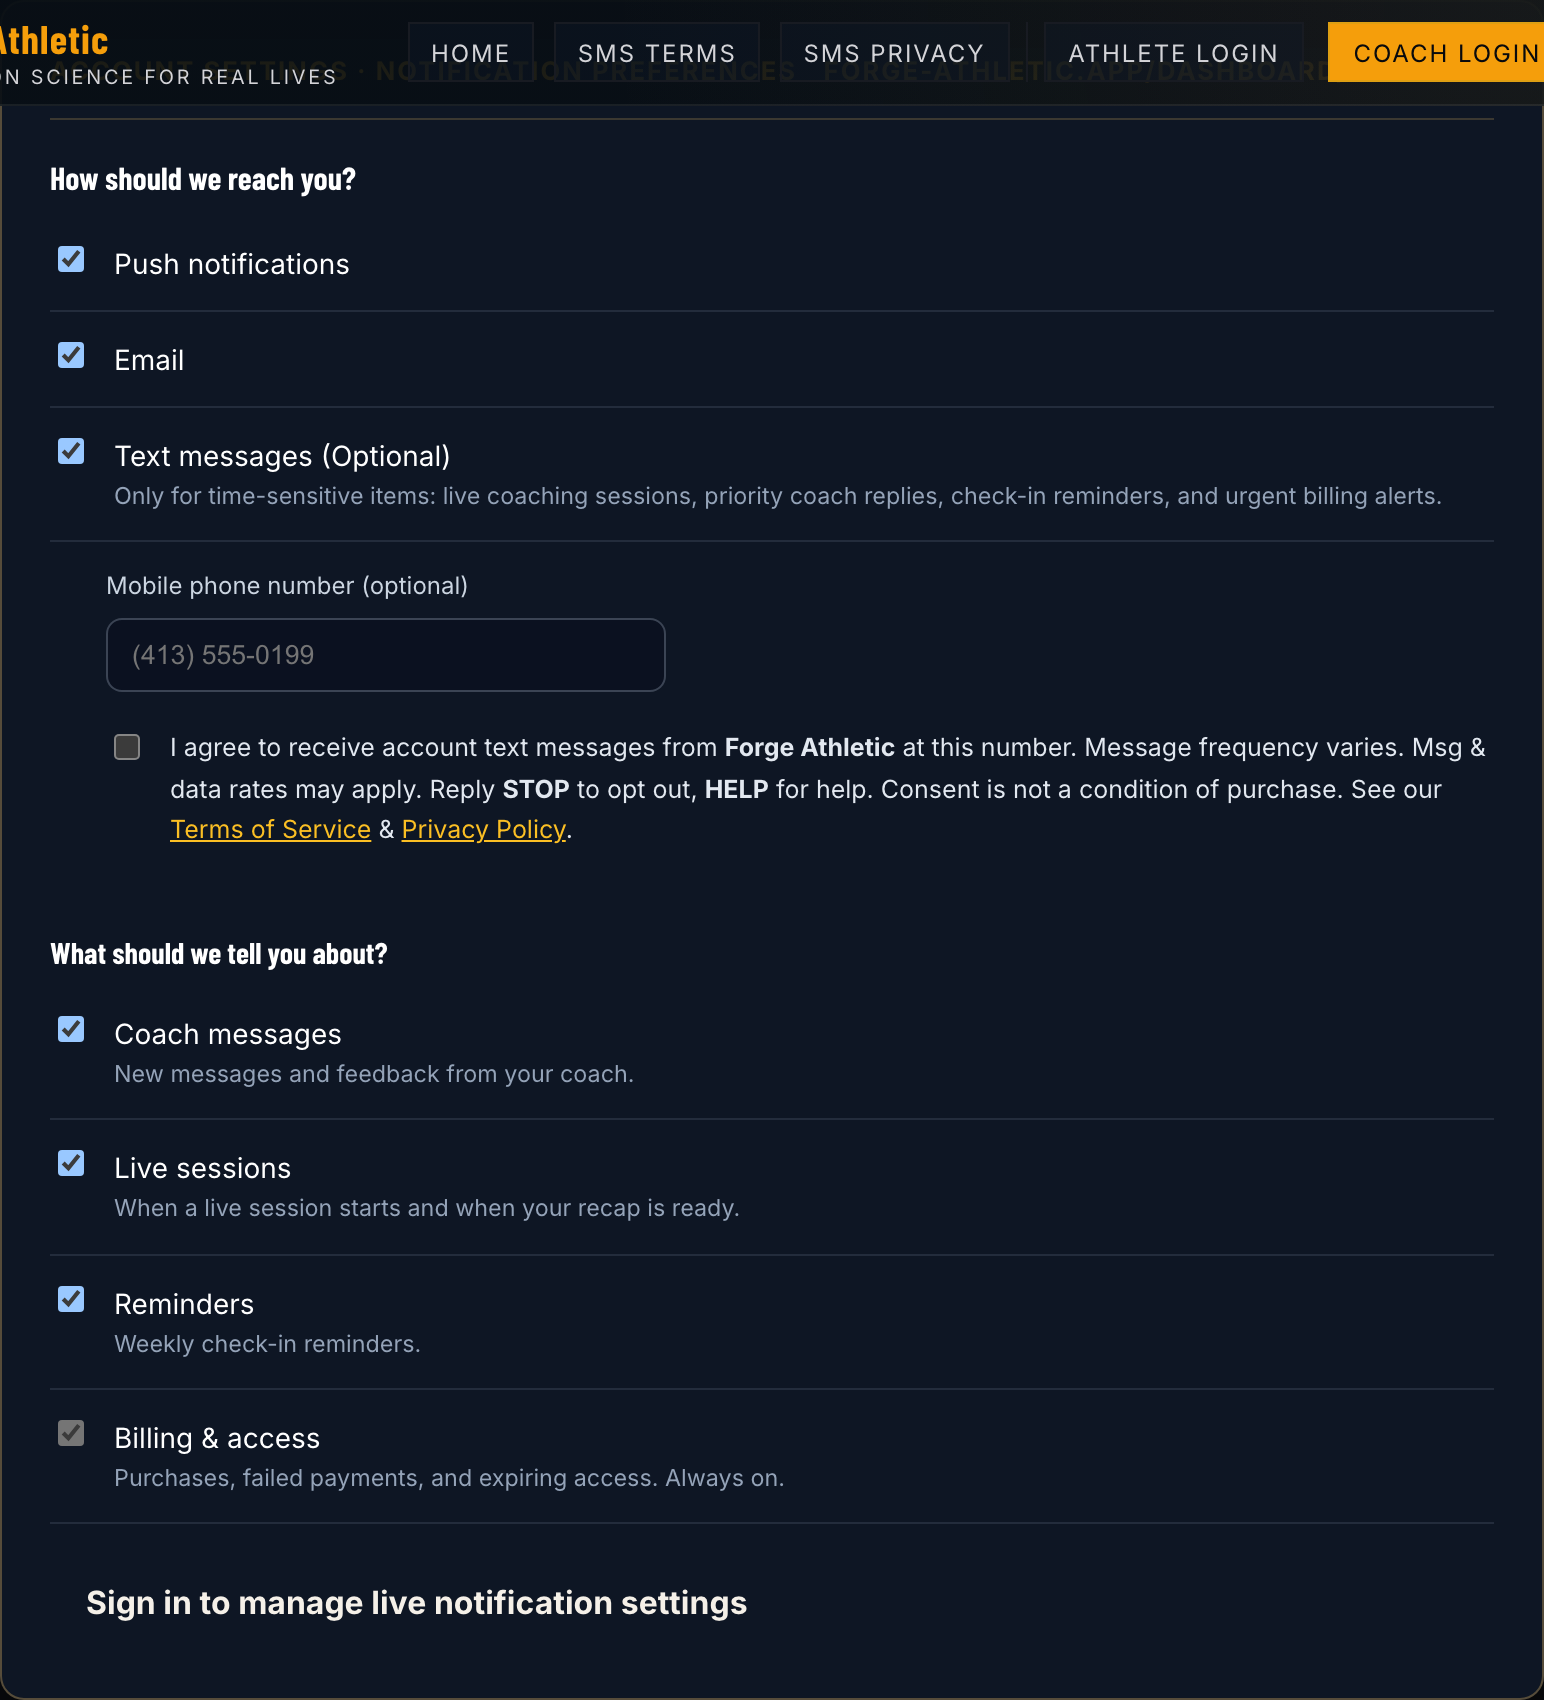
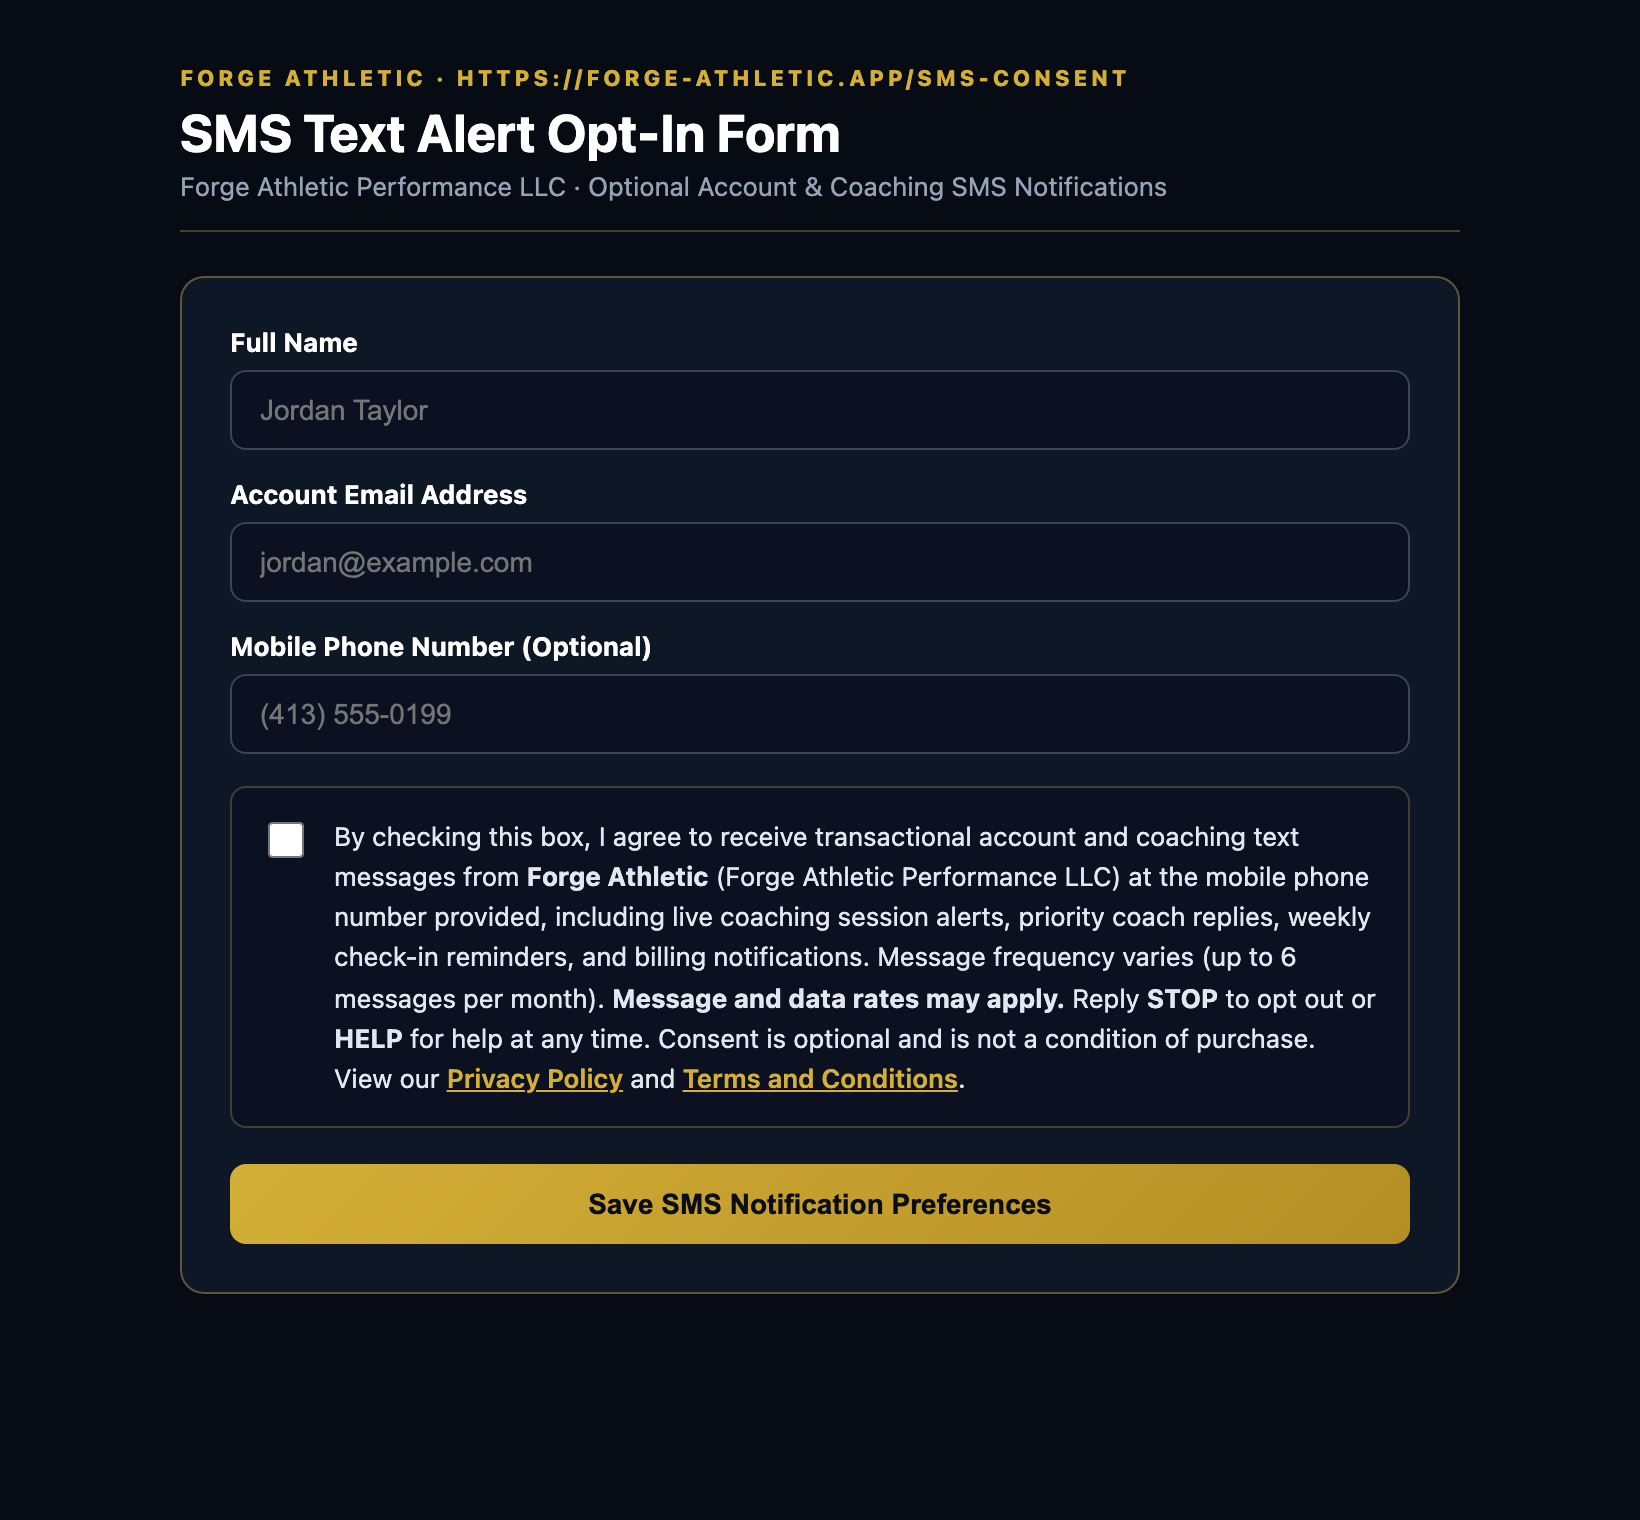
fix(sms): remove noindex and pre-checked boxes on /sms-consent for Twilio crawler

diff --git a/app/sms-consent/page.tsx b/app/sms-consent/page.tsx
@@ -3,41 +3,40 @@ import Link from 'next/link'
 import SiteHeader from '@/components/ui/SiteHeader'
 import SiteFooter from '@/components/ui/SiteFooter'
 import MarketingLoginActions from '@/components/ui/MarketingLoginActions'
-import { NOTIFICATION_CATEGORIES } from '@/lib/notification-catalog'
 
 export const metadata: Metadata = {
-  title: 'SMS Notification Opt-In & Consent Workflow | Forge Athletic',
+  title: 'SMS Notification Opt-In | Forge Athletic',
   description:
-    'Public verification preview of the Forge Athletic authenticated Account Settings SMS opt-in consent workflow, disclosures, and opt-out controls.',
-  robots: { index: false, follow: false },
+    'Opt in to receive optional transactional account and coaching SMS notifications from Forge Athletic (Forge Athletic Performance LLC).',
 }
 
-const rowStyle: React.CSSProperties = {
-  display: 'flex',
-  alignItems: 'flex-start',
-  gap: 12,
-  padding: '12px 0',
-  borderBottom: '1px solid rgba(148, 163, 184, 0.16)',
+const inputStyle: React.CSSProperties = {
+  width: '100%',
+  padding: '11px 14px',
+  borderRadius: 8,
+  border: '1px solid rgba(148, 163, 184, 0.35)',
+  background: '#0B1120',
   color: '#FFFFFF',
   fontSize: 14,
+  boxSizing: 'border-box',
 }
 
-export default function SmsConsentVerificationPage() {
+export default function SmsConsentPage() {
   return (
     <>
       <SiteHeader
         fixed
         links={[
           { href: '/', label: 'Home' },
-          { href: '/terms#sms-terms', label: 'SMS Terms' },
-          { href: '/privacy#sms-privacy', label: 'SMS Privacy' },
+          { href: '/terms', label: 'Terms and Conditions' },
+          { href: '/privacy', label: 'Privacy Policy' },
         ]}
         actions={<MarketingLoginActions />}
       />
       <main
         id="main-content"
         style={{
-          maxWidth: 820,
+          maxWidth: 680,
           margin: '0 auto',
           padding: 'clamp(5rem, 8vw, 7rem) clamp(16px, 3vw, 24px) 4rem',
           fontFamily: 'Raleway, sans-serif',
@@ -46,7 +45,7 @@ export default function SmsConsentVerificationPage() {
           boxSizing: 'border-box',
         }}
       >
-        <div style={{ borderBottom: '1px solid rgba(197, 160, 89, 0.3)', paddingBottom: '1.25rem', marginBottom: '2rem' }}>
+        <div style={{ borderBottom: '1px solid rgba(197, 160, 89, 0.3)', paddingBottom: '1.25rem', marginBottom: '1.75rem' }}>
           <span
             style={{
               fontSize: '0.75rem',
@@ -56,182 +55,116 @@ export default function SmsConsentVerificationPage() {
               color: 'var(--gold-lt)',
             }}
           >
-            Carrier Compliance &amp; Member Transparency
+            Forge Athletic Account Notifications
           </span>
           <h1
             style={{
               fontFamily: 'var(--font-serif, Cinzel), Georgia, serif',
-              fontSize: '2.1rem',
+              fontSize: '2rem',
               letterSpacing: '0.04em',
               margin: '0.5rem 0 0',
               color: '#FFFFFF',
             }}
           >
-            SMS Notification Opt-In Workflow
+            SMS Text Alert Opt-In Form
           </h1>
           <p style={{ color: '#94A3B8', margin: '0.5rem 0 0', fontSize: '0.92rem' }}>
-            Forge Athletic Performance LLC · Program: Forge Athletic Account &amp; Coaching Alerts
+            Forge Athletic Performance LLC · Optional Account &amp; Coaching SMS Notifications
           </p>
         </div>
-
-        <p style={{ fontSize: '0.95rem', color: '#CBD5E1', marginBottom: '1.5rem' }}>
-          Forge Athletic sends transactional text messages strictly to authenticated adult members who explicitly opt in inside{' '}
-          <strong>Account Settings &gt; Notification Preferences</strong>. Below is the exact unauthenticated verification preview of
-          the member opt-in form (rendered inside the authenticated portal at <code>/dashboard/settings</code>), showing the optional
-          phone input and the unchecked affirmative SMS consent checkbox.
-        </p>
 
         <form
           action="/auth/login"
           method="get"
-          aria-label="Member Account Settings SMS Opt-In Form"
           style={{
-            background: 'rgba(14, 23, 38, 0.92)',
+            background: 'rgba(14, 23, 38, 0.94)',
             border: '1px solid rgba(197, 160, 89, 0.4)',
             borderRadius: 12,
-            padding: '1.5rem',
+            padding: '1.75rem',
             marginBottom: '2rem',
             boxShadow: '0 12px 32px rgba(0, 0, 0, 0.35)',
           }}
         >
           <input type="hidden" name="next" value="/dashboard/settings" />
-          <div
-            style={{
-              display: 'flex',
-              justifyContent: 'space-between',
-              alignItems: 'center',
-              borderBottom: '1px solid rgba(197, 160, 89, 0.25)',
-              paddingBottom: '0.75rem',
-              marginBottom: '1rem',
-              fontSize: '0.8rem',
-              color: 'var(--gold-lt)',
-              letterSpacing: '0.08em',
-              textTransform: 'uppercase',
-              fontWeight: 700,
-            }}
-          >
-            <span>Account Settings · Notification Preferences</span>
-            <span>forge-athletic.app</span>
+
+          <div style={{ marginBottom: 16 }}>
+            <label htmlFor="sms-full-name" style={{ display: 'block', fontSize: 13, fontWeight: 700, color: '#FFFFFF', marginBottom: 6 }}>
+              Full Name
+            </label>
+            <input id="sms-full-name" name="name" type="text" autoComplete="name" placeholder="Jordan Taylor" style={inputStyle} />
           </div>
 
-          <h2 style={{ margin: '0 0 6px', color: '#FFFFFF', fontSize: 16, fontWeight: 700 }}>How should we reach you?</h2>
+          <div style={{ marginBottom: 16 }}>
+            <label htmlFor="sms-email" style={{ display: 'block', fontSize: 13, fontWeight: 700, color: '#FFFFFF', marginBottom: 6 }}>
+              Account Email Address
+            </label>
+            <input id="sms-email" name="email" type="email" autoComplete="email" placeholder="jordan@example.com" style={inputStyle} />
+          </div>
 
-          <label style={rowStyle}>
-            <input type="checkbox" name="pushEnabled" defaultChecked />
-            <span>Push notifications</span>
-          </label>
+          <div style={{ marginBottom: 18 }}>
+            <label htmlFor="sms-phone" style={{ display: 'block', fontSize: 13, fontWeight: 700, color: '#FFFFFF', marginBottom: 6 }}>
+              Mobile Phone Number (Optional)
+            </label>
+            <input id="sms-phone" name="phone" type="tel" autoComplete="tel" placeholder="(413) 555-0199" style={inputStyle} />
+          </div>
 
-          <label style={rowStyle}>
-            <input type="checkbox" name="emailEnabled" defaultChecked />
-            <span>Email</span>
-          </label>
-
-          <label style={rowStyle}>
-            <input type="checkbox" name="smsEnabled" defaultChecked />
+          <label
+            htmlFor="sms-consent-checkbox"
+            style={{
+              display: 'flex',
+              alignItems: 'flex-start',
+              gap: 12,
+              padding: '14px',
+              borderRadius: 8,
+              background: 'rgba(11, 17, 32, 0.85)',
+              border: '1px solid rgba(197, 160, 89, 0.28)',
+              fontSize: 13,
+              color: '#E2E8F0',
+              cursor: 'pointer',
+              marginBottom: 20,
+            }}
+          >
+            <input
+              id="sms-consent-checkbox"
+              name="sms_consent"
+              type="checkbox"
+              defaultChecked={false}
+              style={{ marginTop: 3, width: 18, height: 18, flexShrink: 0 }}
+            />
             <span>
-              Text messages (Optional)
-              <small style={{ display: 'block', color: '#94A3B8' }}>
-                Only for time-sensitive items: live coaching sessions, priority coach replies, check-in reminders, and urgent billing alerts.
-              </small>
+              By checking this box, I agree to receive transactional account and coaching text messages from{' '}
+              <strong>Forge Athletic</strong> (Forge Athletic Performance LLC) at the mobile phone number provided, including live
+              coaching session alerts, priority coach replies, weekly check-in reminders, and billing notifications. Message
+              frequency varies (up to 6 messages per month). <strong>Message and data rates may apply.</strong> Reply{' '}
+              <strong>STOP</strong> to opt out or <strong>HELP</strong> for help at any time. Consent is optional and is not a
+              condition of purchase. View our{' '}
+              <Link href="/privacy" style={{ color: 'var(--gold-lt)', textDecoration: 'underline', fontWeight: 600 }}>
+                Privacy Policy
+              </Link>{' '}
+              and{' '}
+              <Link href="/terms" style={{ color: 'var(--gold-lt)', textDecoration: 'underline', fontWeight: 600 }}>
+                Terms and Conditions
+              </Link>
+              .
             </span>
           </label>
 
-          <div style={{ padding: '12px 0 8px 28px' }}>
-            <label htmlFor="sms-preview-phone" style={{ display: 'block', fontSize: 12, color: '#CBD5E1', marginBottom: 6 }}>
-              Mobile phone number (optional)
-            </label>
-            <input
-              id="sms-preview-phone"
-              name="phone"
-              type="tel"
-              placeholder="(413) 555-0199"
-              style={{
-                width: '100%',
-                maxWidth: 280,
-                padding: '10px 12px',
-                borderRadius: 8,
-                border: '1px solid rgba(148, 163, 184, 0.35)',
-                background: '#0B1120',
-                color: '#FFFFFF',
-              }}
-            />
-
-            <label style={{ ...rowStyle, borderBottom: 'none', fontSize: 12.5, color: '#E2E8F0', marginTop: 6 }}>
-              <input type="checkbox" name="smsConsent" defaultChecked={false} />
-              <span>
-                I agree to receive account text messages from <strong>Forge Athletic</strong> at this number. Message frequency
-                varies. Msg &amp; data rates may apply. Reply <strong>STOP</strong> to opt out, <strong>HELP</strong> for help.
-                Consent is not a condition of purchase. See our{' '}
-                <Link href="/terms#sms-terms" style={{ color: 'var(--gold-lt)', textDecoration: 'underline' }}>
-                  Terms of Service
-                </Link>{' '}
-                &amp;{' '}
-                <Link href="/privacy#sms-privacy" style={{ color: 'var(--gold-lt)', textDecoration: 'underline' }}>
-                  Privacy Policy
-                </Link>
-                .
-              </span>
-            </label>
-          </div>
-
-          <h3 style={{ margin: '18px 0 4px', color: '#FFFFFF', fontSize: 15, fontWeight: 700 }}>What should we tell you about?</h3>
-          {NOTIFICATION_CATEGORIES.map((cat) => (
-            <label key={cat.id} style={rowStyle}>
-              <input type="checkbox" name={`cat_${cat.id}`} defaultChecked disabled={!cat.mutable} />
-              <span>
-                {cat.label}
-                <small style={{ display: 'block', color: '#94A3B8' }}>{cat.description}</small>
-              </span>
-            </label>
-          ))}
-
-          <div style={{ marginTop: 16 }}>
-            <button
-              type="submit"
-              className="btn-gold"
-              style={{ cursor: 'pointer', padding: '10px 18px', borderRadius: 8, fontWeight: 700, border: 'none' }}
-            >
-              Save notification settings
-            </button>
-          </div>
-        </form>
-
-        <section style={{ fontSize: '0.9rem', color: '#CBD5E1' }}>
-          <h2
+          <button
+            type="submit"
+            className="btn-gold"
             style={{
-              fontFamily: 'var(--font-serif, Cinzel), Georgia, serif',
-              fontSize: '1.2rem',
-              color: 'var(--gold-lt)',
-              marginBottom: '0.5rem',
+              width: '100%',
+              cursor: 'pointer',
+              padding: '12px 20px',
+              borderRadius: 8,
+              fontWeight: 700,
+              fontSize: 14,
+              border: 'none',
             }}
           >
-            Summary of SMS Compliance Safeguards
-          </h2>
-          <ul style={{ paddingLeft: '1.25rem', margin: 0 }}>
-            <li style={{ marginBottom: '0.35rem' }}>
-              <strong>Double-Gated Affirmative Consent:</strong> Both <code>sms_enabled = true</code> and an explicit timestamped{' '}
-              <code>sms_consent_at</code> checkbox attestation are required before any text is dispatched; the consent box is
-              unchecked by default and is never bundled with Terms of Service acceptance or required for purchase.
-            </li>
-            <li style={{ marginBottom: '0.35rem' }}>
-              <strong>Instant Webhook Keyword Handling:</strong> Inbound <code>STOP</code>, <code>UNSUBSCRIBE</code>,{' '}
-              <code>CANCEL</code>, <code>END</code>, <code>QUIT</code>, <code>START</code>, and <code>HELP</code> replies are
-              processed immediately at <code>POST /api/webhooks/twilio</code>.
-            </li>
-            <li style={{ marginBottom: '0.35rem' }}>
-              <strong>Strict Non-Sharing Policy:</strong> Mobile phone numbers and SMS opt-in consent records are never sold or
-              shared with third parties or affiliates for marketing or promotional purposes (
-              <Link href="/privacy#sms-privacy" style={{ color: 'var(--gold-lt)', textDecoration: 'underline' }}>
-                Privacy Policy § 5
-              </Link>{' '}
-              ·{' '}
-              <Link href="/terms#sms-terms" style={{ color: 'var(--gold-lt)', textDecoration: 'underline' }}>
-                Terms of Service § 4.1
-              </Link>
-              ).
-            </li>
-          </ul>
-        </section>
+            Save SMS Notification Preferences
+          </button>
+        </form>
       </main>
       <SiteFooter />
     </>
